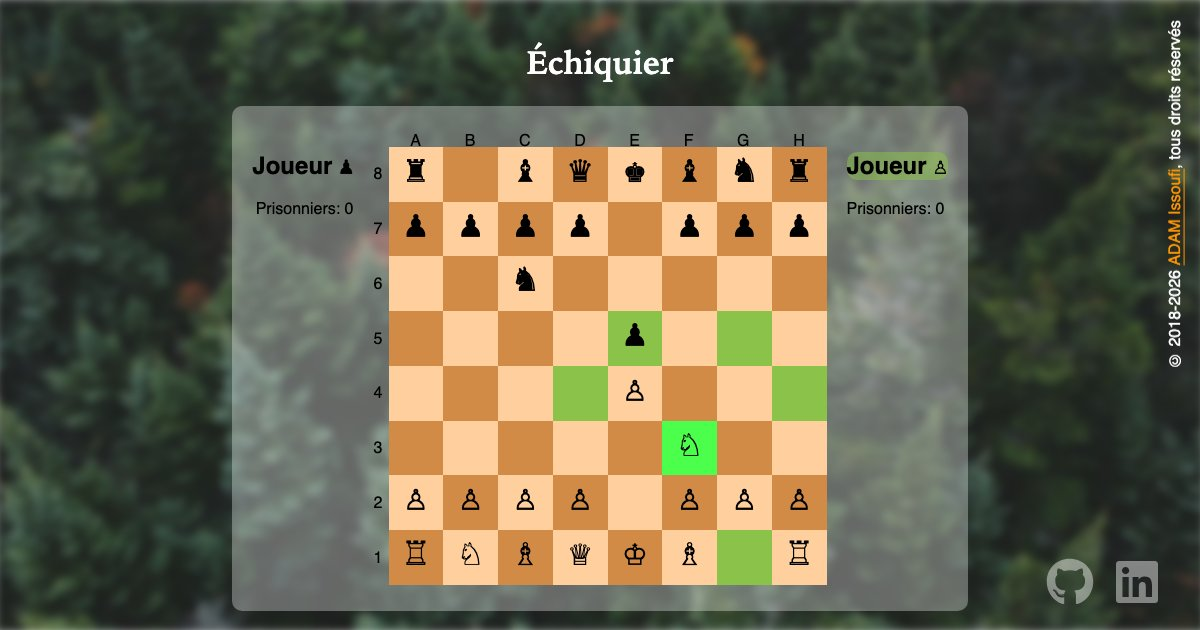
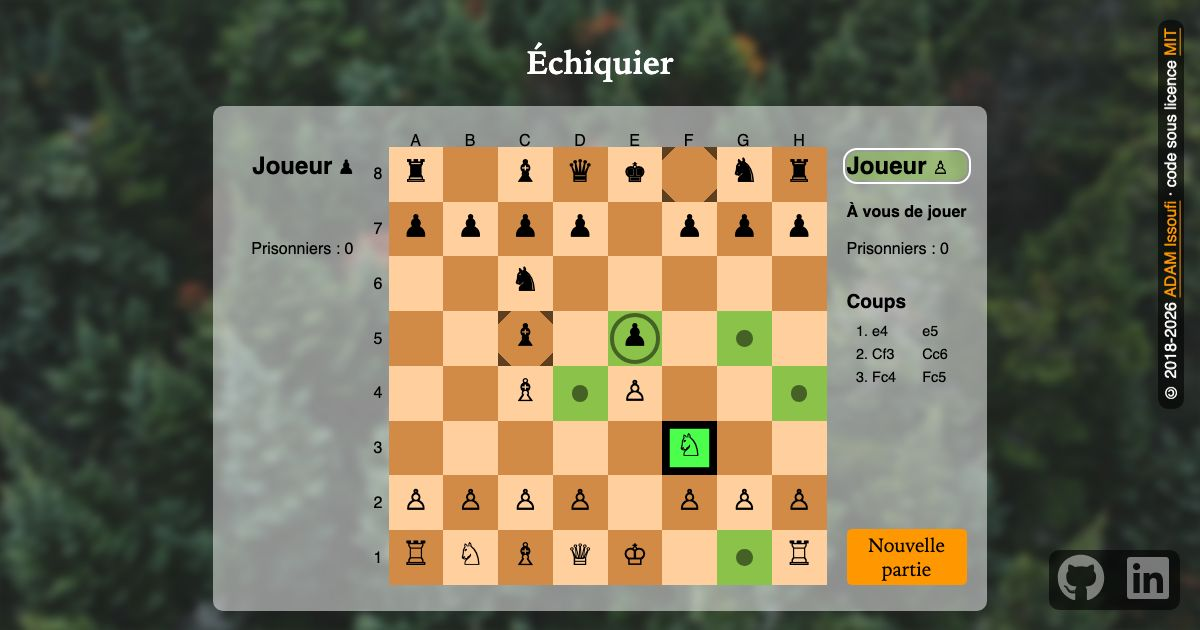
docs: recapture the social preview and the README screenshot
Both images now show the current app: the move list, the new game button, the dot and ring
markers, the dark ring of the selected square, the turn label and the MIT footer. The alt texts
of og:image and of the README describe the new scene.

Refs: CHESS-175

diff --git a/app/index.html b/app/index.html
@@ -24,7 +24,7 @@
     <meta property="og:image:height" content="630" />
     <meta
       property="og:image:alt"
-      content="Une partie en cours&nbsp;: le cavalier blanc en f3 est sélectionné et ses coups possibles sont surlignés"
+      content="Une partie en cours après trois coups, listés à côté de l'échiquier&nbsp;: le cavalier blanc en f3 est sélectionné, des points marquent ses cases libres et un anneau sa prise en e5"
     />
     <meta name="twitter:card" content="summary_large_image" />
     <link rel="stylesheet" href="css/style.css" />

diff --git a/README.md b/README.md
@@ -9,7 +9,7 @@ the final position, which keeps the result of the game on screen.
 **Live demo:** https://chess.issoufi.fr
 
 <p align="center">
-  <img src="docs/screenshot.webp" alt="A game after 1. e4 d5: corners mark d7 and d5, the squares of the last move; the white pawn on e4 is selected, a dot marks its empty target e5 and a ring marks its capture on d5, and the new game button shows beside the board" width="800">
+  <img src="docs/screenshot.webp" alt="A game after 1. e4 e5 2. Nf3 Nc6 3. Bc4 Bc5, listed in the move list beside the board: corners mark f8 and c5, the squares of the last move; the white knight on f3 is selected, dots mark its empty targets and a ring marks its capture on e5" width="800">
 </p>
 
 ## Tech stack
